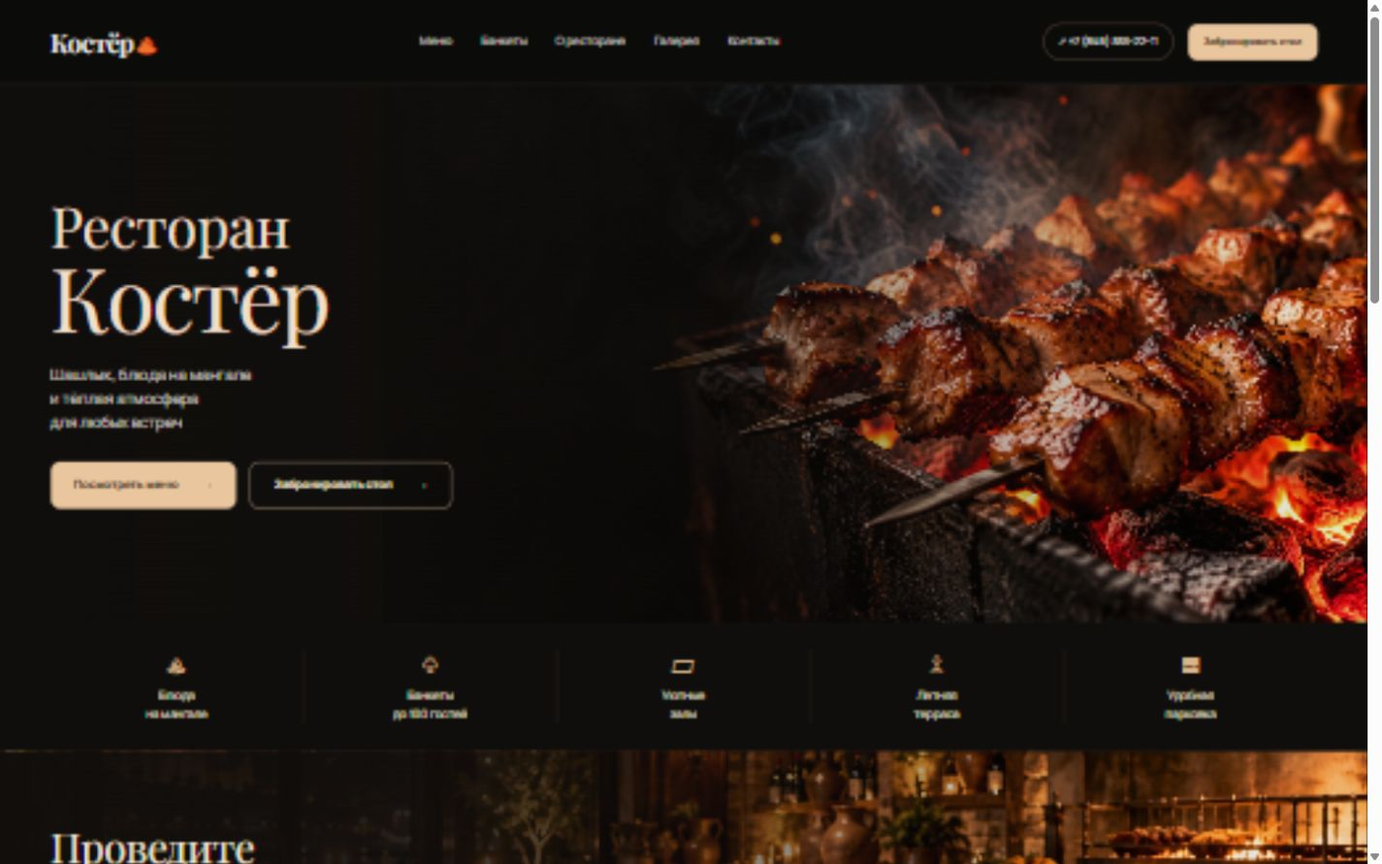
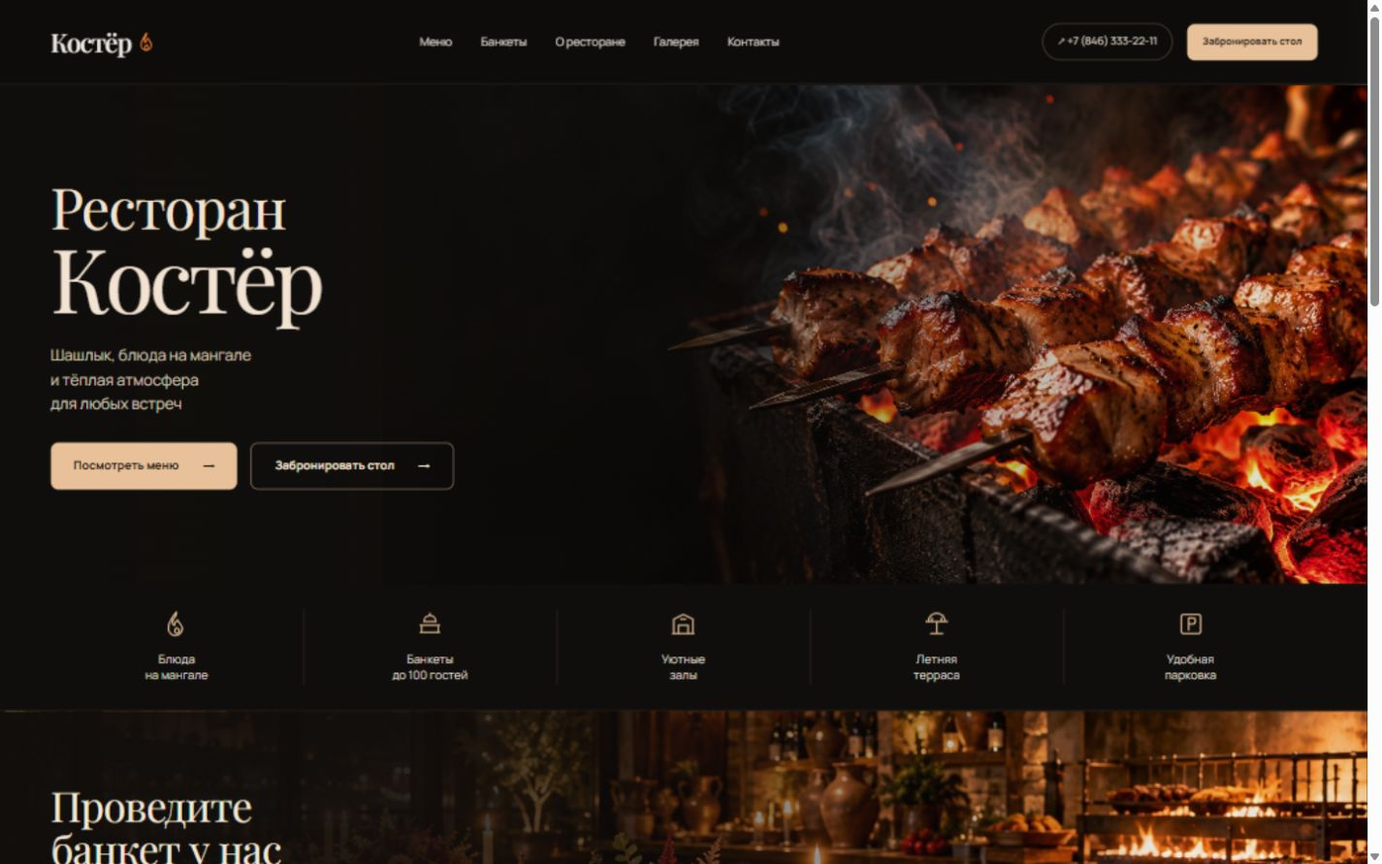
Refine Koster restaurant design and motion

diff --git a/mockups/koster/app.js b/mockups/koster/app.js
@@ -1,22 +1,45 @@
 const app = document.querySelector('#app');
 const images = ['assets/terrace.jpg','assets/interior.jpg','assets/banquet.jpg'];
 let galleryShift = 0;
-const feature = (icon, text) => `<div class="feature"><span class="feature-icon">${icon}</span>${text}</div>`;
+const iconPaths = {
+  flame:'<path d="M12 2c.5 4-3.5 5.2-3.5 8.5 0 1.1.7 2.2 1.7 2.8-.1-2 1.2-3.6 2.6-4.7.1 2.1 4 3.5 4 7.2a5.8 5.8 0 0 1-11.6 0C5.2 11.6 8.2 6.2 12 2Z"/><path d="M12 15.2c-1.1 1-1.6 1.8-1.6 2.7a1.9 1.9 0 0 0 3.8 0c0-.9-.6-1.8-1.2-2.4"/>',
+  table:'<path d="M4 13h16M5 13v6m14-6v6M7 10a5 5 0 0 1 10 0H7Zm5-7v2M4 19h16"/>',
+  room:'<path d="M4 20V8l8-4 8 4v12M8 20v-7h8v7M3 20h18M10 8h4"/>',
+  terrace:'<path d="M3 10h18M12 10v10M5 10a7 7 0 0 1 14 0M7 20h10M8 10V7m8 3V7"/>',
+  parking:'<rect x="4" y="4" width="16" height="16" rx="2"/><path d="M10 17V7h3.2a2.5 2.5 0 0 1 0 5H10"/>',
+  guests:'<circle cx="9" cy="8" r="2.5"/><path d="M4 19v-1a5 5 0 0 1 10 0v1M16 5.8a2.6 2.6 0 0 1 0 5.1M17 13a4 4 0 0 1 3 4v2"/>',
+  cutlery:'<path d="M5 3v5a2 2 0 0 0 4 0V3M7 3v18M18 3c-2 2-3 4-3 7h3M18 3v18"/>',
+  service:'<path d="M3 18h18M5 16a7 7 0 0 1 14 0H5Zm7-10V4M10 4h4M6 21h12"/>',
+  leaf:'<path d="M20 4C11 4 5 6.6 5 13a6 6 0 0 0 6 6c6.4 0 9-6 9-15ZM5 20c2-4 5-7 10-10"/>',
+  chef:'<path d="M7 13a4 4 0 0 1-.5-7.9A4.5 4.5 0 0 1 14.7 5 4 4 0 0 1 18 13v6H7v-6ZM7 16h11M10 13v3m5-3v3"/>',
+  star:'<path d="m12 3 2.6 5.5 6 .8-4.3 4.1 1.1 5.9-5.4-2.8-5.4 2.8 1-5.9-4.2-4.1 6-.8L12 3Z"/>',
+  award:'<path d="M12 3 19 6v6c0 4.3-3 7.2-7 9-4-1.8-7-4.7-7-9V6l7-3Z"/><path d="m9 12 2 2 4-4"/>'
+};
+const icon = (name) => `<svg viewBox="0 0 24 24" fill="none" stroke="currentColor" stroke-width="1.35" stroke-linecap="round" stroke-linejoin="round" aria-hidden="true">${iconPaths[name] || iconPaths.flame}</svg>`;
+const feature = (name, text) => `<div class="feature"><span class="feature-icon">${icon(name)}</span>${text}</div>`;
 const features = (items, extra='') => `<div class="features ${extra}"><div class="wrap features-grid">${items.map(x=>feature(...x)).join('')}</div></div>`;
-const homeFeatures = [['♨','Блюда<br>на мангале'],['♧','Банкеты<br>до 100 гостей'],['▱','Уютные<br>залы'],['♙','Летняя<br>терраса'],['▦','Удобная<br>парковка']];
-const banquetFeatures = [['♧','До 100<br>гостей'],['♙','Отдельные<br>залы'],['⚒','Индивидуальное<br>меню'],['✿','Полный<br>сервис']];
-const aboutFeatures = [['♧','Свежие<br>продукты'],['♙','Опытные<br>повара'],['☆','Уютная<br>атмосфера'],['⌂','Высокий<br>уровень сервиса']];
-function dishImage(item, index) {
-  if (/veget|salad|pickles|cheese|rice|potato|fries|hummus/.test(item.image)) return 'assets/food.jpg';
-  return index % 3 === 1 ? 'assets/food.jpg' : 'assets/grill.jpg';
+const homeFeatures = [['flame','Блюда<br>на мангале'],['table','Банкеты<br>до 100 гостей'],['room','Уютные<br>залы'],['terrace','Летняя<br>терраса'],['parking','Удобная<br>парковка']];
+const banquetFeatures = [['guests','До 100<br>гостей'],['room','Отдельные<br>залы'],['cutlery','Индивидуальное<br>меню'],['service','Полный<br>сервис']];
+const aboutFeatures = [['leaf','Свежие<br>продукты'],['chef','Опытные<br>повара'],['star','Уютная<br>атмосфера'],['award','Высокий<br>уровень сервиса']];
+function dishImage(item) {
+  const images = {
+    'pork-kebab':'pork', 'chicken-kebab':'chicken', 'lamb-kebab':'grill', 'lula-kebab':'lula', 'chicken-wings':'chicken', 'grilled-vegetables':'vegetables',
+    'lamb-saj':'food', 'dolma':'food', 'roast':'food', 'chicken-tabaka':'chicken',
+    'pickles':'starters', 'cheese':'starters', 'cold-cuts':'food', 'fresh-vegetables':'vegetables', 'hummus':'starters',
+    'georgian-salad':'salad', 'caesar-salad':'salad', 'vegetable-salad':'vegetables', 'beef-salad':'food', 'eggplant-salad':'vegetables',
+    'grilled-potatoes':'potatoes', 'fries':'potatoes', 'rice':'food', 'roast-potatoes':'potatoes',
+    'tomato-sauce':'starters', 'matsoni-sauce':'starters', 'narsharab':'starters', 'adjika':'starters',
+    'lemonade':'lemonade', 'berry-drink':'lemonade', 'tea':'lemonade', 'water':'lemonade'
+  };
+  return 'assets/' + (images[item.image] || 'food') + '.jpg';
 }
 function dish(item,index){return `<article class="dish"><img src="${dishImage(item,index)}" alt="${item.name}" loading="lazy"><div class="dish-info"><div class="dish-name">${item.name}</div><div class="dish-price">${item.price} ₽</div><button class="add" aria-label="Добавить ${item.name}" data-add="${item.name}">+</button></div></article>`}
 function gallery(){return `<section class="section" id="gallery"><div class="wrap"><div class="section-head"><h2>Атмосфера Костра</h2><div class="gallery-controls"><button class="circle" data-gallery="-1" aria-label="Предыдущее фото">‹</button><button class="circle" data-gallery="1" aria-label="Следующее фото">›</button></div></div><div class="gallery-grid">${images.map((_,i)=>`<img src="${images[(i+galleryShift+3)%3]}" alt="Атмосфера ресторана Костёр" loading="lazy">`).join('')}</div></div></section>`}
 function hero(cls,crumb,title,desc,actions){return `<section class="hero page-hero ${cls}"><div class="hero-image"></div><div class="wrap"><div class="hero-copy"><div class="breadcrumbs">Главная / ${crumb}</div><h1>${title}</h1><p>${desc}</p>${actions||''}</div></div></section>`}
 function home(){let popular=[KOSTER_MENU[0].items[0],KOSTER_MENU[0].items[1],KOSTER_MENU[0].items[3],KOSTER_MENU[0].items[5]];return `<section class="hero hero-home"><div class="hero-image"></div><div class="wrap"><div class="hero-copy"><h1><span>Ресторан</span>Костёр</h1><p>Шашлык, блюда на мангале<br>и тёплая атмосфера<br>для любых встреч</p><div class="actions"><a class="button" href="#menu">Посмотреть меню <span>→</span></a><button class="button button-outline" data-book>Забронировать стол <span>→</span></button></div></div></div></section>${features(homeFeatures)}<section class="split-photo banquet-promo"><div class="wrap"><div class="split-copy"><h2>Проведите<br>банкет у нас</h2><p>Дни рождения, корпоративы, свадьбы и другие важные события в уютной атмосфере.</p><a class="button" href="#banquets">Оставить заявку <span>→</span></a></div></div></section><section class="section"><div class="wrap"><div class="section-head"><h2>Популярные блюда</h2><a class="text-link" href="#menu">Смотреть всё меню →</a></div><div class="cards">${popular.map(dish).join('')}</div></div></section>${gallery()}<section class="section" id="reviews"><div class="wrap"><div class="section-head"><h2>Отзывы гостей</h2><a class="text-link" href="#reviews">Все отзывы →</a></div><div class="reviews">${[['Отличный шашлык, всегда сочный и вкусный! Часто приходим с семьёй.','Алексей Г.'],['Проводили здесь юбилей — всё на высшем уровне! Спасибо команде.','Марина К.'],['Уютная атмосфера, вкусная еда и отличный сервис. Рекомендуем!','Игорь С.']].map(x=>`<article class="review"><span class="quote">“</span><p>${x[0]}</p><div class="review-bottom"><span>${x[1]}</span><span class="stars">★★★★★</span></div></article>`).join('')}</div></div></section>`}
-function menu(){return `${hero('menu-hero','Меню','Меню','Блюда с мангала, закуски, гарниры и всё, что дополнит ваш отдых.')}<div class="wrap menu-bottom"><div class="tabs">${KOSTER_MENU.map((c,i)=>`<a class="tab ${i===0?'active':''}" href="#category-${c.id}" data-category="${c.id}">${c.shortTitle}</a>`).join('')}</div>${KOSTER_MENU.map(c=>`<section class="menu-section" id="category-${c.id}"><h2><span>♨</span>${c.title}</h2><div class="cards">${c.items.map(dish).join('')}</div></section>`).join('')}</div>`}
+function menu(){return `${hero('menu-hero','Меню','Меню','Блюда с мангала, закуски, гарниры и всё, что дополнит ваш отдых.')}<div class="wrap menu-bottom"><div class="tabs">${KOSTER_MENU.map((c,i)=>`<a class="tab ${i===0?'active':''}" href="#category-${c.id}" data-category="${c.id}">${c.shortTitle}</a>`).join('')}</div>${KOSTER_MENU.map(c=>`<section class="menu-section" id="category-${c.id}"><h2><span class="menu-flame">${icon('flame')}</span>${c.title}</h2><div class="cards">${c.items.map(dish).join('')}</div></section>`).join('')}</div>`}
 function banquets(){return `${hero('banquet-hero','Банкеты','Банкеты<br>в Костре','Проведите у нас день рождения, свадьбу, корпоратив или любой важный повод.',`<div class="actions"><a class="button" href="#application" data-scroll="application">Оставить заявку <span>→</span></a><a class="button button-outline" href="#menu">Посмотреть меню <span>→</span></a></div>`)}${features(banquetFeatures,'four')}<section class="section"><div class="wrap"><div class="section-head"><h2>Наши залы</h2><div class="gallery-controls"><button class="circle" data-halls="-1" aria-label="Предыдущий зал">‹</button><button class="circle" data-halls="1" aria-label="Следующий зал">›</button></div></div><div class="hall-grid">${[['Основной зал','до 60 гостей','interior.jpg'],['Банкетный зал','до 100 гостей','banquet.jpg'],['Летняя терраса','до 40 гостей','terrace.jpg']].map(h=>`<article class="hall"><img src="assets/${h[2]}" alt="${h[0]}"><div><h3>${h[0]}</h3><p>${h[1]}</p></div></article>`).join('')}</div></div></section><section class="split-photo food-promo"><div class="wrap"><div class="split-copy"><h2>Банкетное меню</h2><p>Специальные сеты для мероприятий — подберём меню под ваш формат и бюджет.</p><a class="button" href="#menu">Смотреть меню <span>→</span></a></div></div></section><section class="section application" id="application"><div class="wrap"><h2>Оставьте заявку на банкет</h2><p>Мы свяжемся с вами, уточним детали<br>и поможем организовать идеальный праздник.</p><form class="application-form"><input required name="name" placeholder="Ваше имя" aria-label="Ваше имя"><input required type="tel" name="phone" placeholder="Телефон" aria-label="Телефон"><input type="text" name="date" placeholder="Дата мероприятия" aria-label="Дата мероприятия" onfocus="this.type='date'"><select name="guests" aria-label="Количество гостей"><option value="">Количество гостей</option><option>До 20 гостей</option><option>20–50 гостей</option><option>50–100 гостей</option></select><textarea name="comment" placeholder="Комментарий" aria-label="Комментарий"></textarea><button class="button" type="submit">Отправить заявку <span>→</span></button><small>Демонстрационная форма макета</small></form></div></section>`}
-function about(){return `${hero('about-hero','О ресторане','О ресторане','Костёр — это ресторан с акцентом на блюда с мангала, душевную атмосферу и качественный отдых в кругу близких.')}${features(aboutFeatures,'four')}<section class="split-photo about-promo"><div class="wrap"><div class="split-copy"><h2>Натуральный<br>вкус на огне</h2><p>Готовим из отборного мяса на настоящем мангале, сохраняя сочность и аромат.</p></div></div></section>${gallery()}<section class="section" id="contacts"><div class="wrap contact-grid"><div><h2>Контакты</h2><div class="contact-list"><div><span>⌾</span> г. Самара, ул. Ново-Садовая, 24</div><a href="tel:+78463332211"><span>⌕</span> +7 (846) 333-22-11</a><div><span>◷</span> Ежедневно с 11:00 до 00:00</div><div class="socials"><a href="https://t.me/">➤</a><a href="https://vk.com/">VK</a><a href="https://instagram.com/">◎</a></div></div></div><a class="map" href="https://maps.google.com/?q=Самара+Ново-Садовая+24" target="_blank" rel="noreferrer" aria-label="Открыть карту"><b>Костёр</b></a></div></section><section class="split-photo reserve-promo"><div class="wrap"><div class="split-copy"><h2>Забронируйте стол</h2><p>Выберите удобную дату и время — мы подготовим для вас лучшее место.</p><button class="button" data-book>Забронировать стол <span>→</span></button></div></div></section>`}
+function about(){return `${hero('about-hero','О ресторане','О ресторане','Костёр — это ресторан с акцентом на блюда с мангала, душевную атмосферу и качественный отдых в кругу близких.')}${features(aboutFeatures,'four')}<section class="split-photo about-promo"><div class="wrap"><div class="split-copy"><h2>Натуральный<br>вкус на огне</h2><p>Готовим из отборного мяса на настоящем мангале, сохраняя сочность и аромат.</p></div></div></section>${gallery()}<section class="section" id="contacts"><div class="wrap contact-grid"><div><h2>Контакты</h2><div class="contact-list"><div><span>⌾</span> г. Самара, ул. Ново-Садовая, 24</div><a href="tel:+78463332211"><span>⌕</span> +7 (846) 333-22-11</a><div><span>◷</span> Ежедневно с 11:00 до 00:00</div><div class="socials"><a href="https://t.me/">➤</a><a href="https://vk.com/">VK</a><a href="https://instagram.com/">◎</a></div></div></div><div class="map"><iframe title="Карта — Ново-Садовая, 24" loading="lazy" src="https://maps.google.com/maps?q=%D0%A1%D0%B0%D0%BC%D0%B0%D1%80%D0%B0%2C%20%D0%9D%D0%BE%D0%B2%D0%BE-%D0%A1%D0%B0%D0%B4%D0%BE%D0%B2%D0%B0%D1%8F%2C%2024&z=15&output=embed"></iframe><a href="https://maps.google.com/?q=Самара+Ново-Садовая+24" target="_blank" rel="noreferrer">Открыть карту ↗</a></div></div></section><section class="split-photo reserve-promo"><div class="wrap"><div class="split-copy"><h2>Забронируйте стол</h2><p>Выберите удобную дату и время — мы подготовим для вас лучшее место.</p><button class="button" data-book>Забронировать стол <span>→</span></button></div></div></section>`}
 function render(){let hash=location.hash.slice(1)||'home';let page=(hash==='menu'||hash.startsWith('category-'))?'menu':hash==='banquets'?'banquets':hash==='about'||hash==='contacts'?'about':'home';app.innerHTML=({home,menu,banquets,about})[page]();document.querySelectorAll('.nav a').forEach(a=>a.classList.toggle('active',a.getAttribute('href')==='#'+page));document.querySelector('.nav').classList.remove('open');document.querySelector('.hamburger').setAttribute('aria-expanded','false');if(hash==='gallery'||hash==='contacts'||hash==='reviews'||hash.startsWith('category-'))requestAnimationFrame(()=>document.getElementById(hash)?.scrollIntoView());else window.scrollTo(0,0)}
 window.addEventListener('hashchange',()=>{if(location.hash.startsWith('#category-') && document.querySelector('.menu-section')) return;render()});
 document.addEventListener('click',e=>{const booking=e.target.closest('[data-book]');if(booking)document.querySelector('#booking').showModal();const add=e.target.closest('[data-add]');if(add)showToast('Демонстрация меню: заказ не оформляется');const gal=e.target.closest('[data-gallery]');if(gal){galleryShift=(galleryShift+Number(gal.dataset.gallery)+3)%3;const grid=gal.closest('section').querySelector('.gallery-grid');grid.querySelectorAll('img').forEach((img,i)=>img.src=images[(i+galleryShift)%3])}const hall=e.target.closest('[data-halls]');if(hall){const grid=document.querySelector('.hall-grid');if(Number(hall.dataset.halls)>0)grid.append(grid.firstElementChild);else grid.prepend(grid.lastElementChild)}const tab=e.target.closest('[data-category]');if(tab){document.querySelectorAll('.tab').forEach(t=>t.classList.remove('active'));tab.classList.add('active')}const scroll=e.target.closest('[data-scroll]');if(scroll){e.preventDefault();document.getElementById(scroll.dataset.scroll)?.scrollIntoView({behavior:'smooth'})}});
@@ -25,6 +48,7 @@ document.querySelector('.hamburger').addEventListener('click',e=>{let nav=docume
 document.addEventListener('submit',e=>{e.preventDefault();if(e.target.closest('dialog'))document.querySelector('#booking').close();e.target.reset();showToast('Спасибо! Это демонстрационная форма макета.')});
 let toastTimer;function showToast(message){const toast=document.querySelector('.toast');toast.textContent=message;toast.classList.add('show');clearTimeout(toastTimer);toastTimer=setTimeout(()=>toast.classList.remove('show'),3500)}
 render();
+
 
 
 

diff --git a/mockups/koster/index.html b/mockups/koster/index.html
@@ -6,19 +6,19 @@
   <title>Костёр — ресторан с душой огня</title>
   <link rel="preconnect" href="https://fonts.googleapis.com"><link rel="preconnect" href="https://fonts.gstatic.com" crossorigin>
   <link href="https://fonts.googleapis.com/css2?family=Manrope:wght@400;500;600;700&family=Playfair+Display:wght@400;500;600&display=swap" rel="stylesheet">
-  <link rel="stylesheet" href="style.css">
+  <link rel="stylesheet" href="style.css"><link rel="stylesheet" href="polish.css"><link rel="stylesheet" href="motion.css">
 </head>
 <body>
 <header class="header"><div class="header-inner wrap">
-  <a class="logo" href="#home" aria-label="Костёр — на главную">Костёр<span>♨</span></a>
+  <a class="logo" href="#home" aria-label="Костёр — на главную">Костёр<span class="logo-flame"><svg viewBox="0 0 24 24" fill="none" stroke="currentColor" stroke-width="1.5" stroke-linecap="round" stroke-linejoin="round" aria-hidden="true"><path d="M12.2 2c.7 4-2.9 5-2.5 8.2.1 1.1.8 1.8 1.5 2.1-.2-2 1.3-3.5 2.7-4.6-.1 2.4 3.6 3.7 3.6 7.3a5.6 5.6 0 0 1-11.2 0C6.3 11 8.7 6.9 12.2 2Z"/><path d="M11.9 15c-1.4 1-2 1.9-2 3a2.2 2.2 0 0 0 4.4 0c0-1-.7-2-1.3-2.7"/></svg></span></a>
   <nav class="nav" aria-label="Основная навигация"><a href="#menu">Меню</a><a href="#banquets">Банкеты</a><a href="#about">О ресторане</a><a href="#gallery">Галерея</a><a href="#contacts">Контакты</a></nav>
   <div class="header-actions"><a class="phone" href="tel:+78463332211">↗ +7 (846) 333-22-11</a><button class="button button-small" data-book>Забронировать стол</button></div>
   <button class="hamburger" aria-label="Открыть меню" aria-expanded="false">☰</button>
 </div></header>
 <main id="app"></main>
-<footer class="footer"><div class="wrap footer-inner"><div><a class="logo" href="#home">Костёр<span>♨</span></a><p>Ресторан &nbsp;|&nbsp; Шашлык &nbsp;|&nbsp; Банкеты</p></div><div class="footer-info"><span>⌾ &nbsp; г. Самара, ул. Ново-Садовая, 24</span><a href="tel:+78463332211">⌕ &nbsp; +7 (846) 333-22-11</a><span>◷ &nbsp; Ежедневно с 11:00 до 00:00</span></div><div class="socials"><a href="https://t.me/" aria-label="Telegram">➤</a><a href="https://vk.com/" aria-label="ВКонтакте">VK</a><a href="https://instagram.com/" aria-label="Instagram">◎</a></div></div></footer>
+<footer class="footer"><div class="wrap footer-inner"><div><a class="logo" href="#home">Костёр<span class="logo-flame"><svg viewBox="0 0 24 24" fill="none" stroke="currentColor" stroke-width="1.5" stroke-linecap="round" stroke-linejoin="round" aria-hidden="true"><path d="M12.2 2c.7 4-2.9 5-2.5 8.2.1 1.1.8 1.8 1.5 2.1-.2-2 1.3-3.5 2.7-4.6-.1 2.4 3.6 3.7 3.6 7.3a5.6 5.6 0 0 1-11.2 0C6.3 11 8.7 6.9 12.2 2Z"/><path d="M11.9 15c-1.4 1-2 1.9-2 3a2.2 2.2 0 0 0 4.4 0c0-1-.7-2-1.3-2.7"/></svg></span></a><p>Ресторан &nbsp;|&nbsp; Шашлык &nbsp;|&nbsp; Банкеты</p></div><div class="footer-info"><span>⌾ &nbsp; г. Самара, ул. Ново-Садовая, 24</span><a href="tel:+78463332211">⌕ &nbsp; +7 (846) 333-22-11</a><span>◷ &nbsp; Ежедневно с 11:00 до 00:00</span></div><div class="socials"><a href="https://t.me/" aria-label="Telegram">➤</a><a href="https://vk.com/" aria-label="ВКонтакте">VK</a><a href="https://instagram.com/" aria-label="Instagram">◎</a></div></div></footer>
 <dialog id="booking"><form method="dialog" class="modal"><button type="button" class="modal-close" aria-label="Закрыть">×</button><p class="eyebrow">До встречи у огня</p><h2>Забронировать стол</h2><p>Оставьте ваши контакты, и мы свяжемся с вами для уточнения деталей.</p><label>Ваше имя<input required name="name" placeholder="Как к вам обращаться"></label><label>Телефон<input required name="phone" type="tel" placeholder="+7 (___) ___-__-__"></label><button type="submit" class="button wide">Оставить заявку <span>→</span></button><small>Демонстрационная форма макета</small></form></dialog>
 <div class="toast" role="status"></div>
-<script src="menu.js"></script><script src="app.js"></script>
+<script src="menu.js"></script><script src="app.js"></script><script src="motion.js"></script>
 </body></html>
 

diff --git a/mockups/koster/polish.css b/mockups/koster/polish.css
@@ -1,0 +1,41 @@
+/* Details shared by every page */
+:root{--bg:#100e0c;--panel:#191510;--line:#332820;--cream:#f3e3d2;--accent:#e8c19a}
+body{background:var(--bg);-webkit-font-smoothing:antialiased}
+.header{position:sticky;top:0;background:rgba(12,11,10,.96);backdrop-filter:blur(14px);z-index:20}
+.logo{display:inline-flex;align-items:center;gap:4px;font-weight:500;letter-spacing:-1.2px}
+.logo .logo-flame{display:inline-flex;width:23px;height:28px;padding:0;color:#ec782f}
+.logo-flame svg{width:100%;height:100%}
+.nav a{position:relative;padding:8px 0;font-size:12px}
+.nav a:after{content:"";position:absolute;bottom:1px;left:0;width:100%;height:1px;background:#d7ae82;transform:scaleX(0);transform-origin:left;transition:transform .3s ease}
+.nav a:hover:after,.nav a.active:after{transform:scaleX(1)}
+.phone{color:#ddd0c3;border-color:#504237}
+.button{border-radius:8px;letter-spacing:.005em}.button-outline{border-color:#8c735e}
+.hero-home{min-height:520px}.hero-home .hero-copy{padding-top:60px;padding-bottom:60px}
+.hero h1,.page-hero h1{font-weight:400;letter-spacing:-.045em}
+.hero h1 span{letter-spacing:-.025em}
+.hero p,.page-hero p{color:#d4c8bc}
+.feature{font-size:12px;line-height:1.45;letter-spacing:.01em;color:#dfd6cc}
+.feature-icon{display:flex;width:30px;height:30px;margin:0 auto 13px;color:#d8b28a}
+.feature-icon svg,.menu-flame svg{display:block;width:100%;height:100%}
+.features-grid{padding-top:27px;padding-bottom:27px}
+.section{background:#100e0c}.section:nth-of-type(even){background:#120f0d}
+.section h2,.section-head h2,.split-copy h2{letter-spacing:-.025em}
+.section-head{margin-bottom:26px}
+.split-photo{min-height:360px}
+.dish,.hall{background:#17130f;border-color:#3a2c21;border-radius:7px}
+.dish img{height:185px}.dish-info{min-height:95px;padding:15px 16px}.dish-name{font-weight:500;color:#eee2d5}.dish-price{letter-spacing:.01em}
+.add,.circle{display:grid;place-items:center;font-family:Arial,sans-serif;font-weight:300}
+.menu-section h2{display:flex;align-items:center;gap:12px}
+.menu-section h2 .menu-flame{width:24px;height:24px;display:inline-flex;margin:0;color:#dfac78}
+.menu-hero{min-height:280px}.menu-section{padding-top:38px}.menu-section .dish img{height:190px}
+.gallery-grid img{border-radius:7px}.gallery-grid{overflow:hidden}
+.review{border-radius:7px;background:#18130f}.review p{line-height:1.7}
+.contact-list{margin-top:26px}.contact-list span{display:inline-block;width:20px}
+.map{position:relative;display:block;overflow:hidden;background:#24221e;border:1px solid #38332d}
+.map iframe{width:100%;height:100%;border:0;filter:grayscale(1) invert(.88) contrast(.85);opacity:.8}
+.map a{position:absolute;right:16px;bottom:16px;padding:10px 14px;background:#181411;color:#f2dfc9;border:1px solid #66513e;border-radius:6px;font-size:11px}
+.footer{border-top:1px solid #2e241c}.footer-info{line-height:1.6}
+:focus-visible{outline:2px solid #e8c19a;outline-offset:4px}
+[id]{scroll-margin-top:100px}
+@media(max-width:1000px){.menu-section .dish img{height:170px}}
+@media(max-width:700px){.header{height:70px}.hero-home{min-height:560px}.hero-home .hero-copy{padding:70px 0 48px}.hero h1{letter-spacing:-.04em}.features-grid{padding:28px 0}.feature-icon{width:27px;height:27px}.dish img,.menu-section .dish img{height:132px}.menu-hero{min-height:300px}.menu-section h2{font-size:24px}.contact-list{margin-top:22px}.map a{right:10px;bottom:10px}[id]{scroll-margin-top:82px}}

diff --git a/mockups/koster/motion.js b/mockups/koster/motion.js
@@ -1,0 +1,60 @@
+(() => {
+  const app = document.querySelector('#app');
+  if (!app) return;
+
+  const reduceMotion = window.matchMedia('(prefers-reduced-motion: reduce)');
+  const targets = [
+    '.section-head', '.split-copy', '.features-grid .feature',
+    '.dish', '.hall', '.review', '.gallery-grid img',
+    '.menu-section > h2', '.contact-grid > *',
+    '.application > .wrap > h2', '.application > .wrap > p', '.application-form'
+  ].join(',');
+  let observer;
+
+  function prepare() {
+    if (observer) observer.disconnect();
+    const elements = Array.from(app.querySelectorAll(targets));
+    if (reduceMotion.matches || !('IntersectionObserver' in window)) {
+      document.documentElement.classList.remove('motion-ready');
+      elements.forEach(element => {
+        element.classList.remove('motion-reveal', 'is-visible');
+        element.style.removeProperty('--reveal-delay');
+      });
+      return;
+    }
+    observer = new IntersectionObserver(entries => {
+      entries.forEach(entry => {
+        if (!entry.isIntersecting) return;
+        entry.target.classList.add('is-visible');
+        observer.unobserve(entry.target);
+      });
+    }, { rootMargin: '0px 0px -32px 0px', threshold: 0.08 });
+    elements.forEach(element => {
+      element.classList.add('motion-reveal');
+      const siblings = element.parentElement ? Array.from(element.parentElement.children) : [];
+      element.style.setProperty('--reveal-delay', `${Math.min(siblings.indexOf(element), 3) * 55}ms`);
+      observer.observe(element);
+    });
+    document.documentElement.classList.add('motion-ready');
+  }
+
+  // The site swaps the direct children of #app on each hash route.
+  new MutationObserver(prepare).observe(app, { childList: true });
+  if (reduceMotion.addEventListener) reduceMotion.addEventListener('change', prepare);
+  else if (reduceMotion.addListener) reduceMotion.addListener(prepare);
+  prepare();
+
+  // A small scroll offset gives the opening photograph depth on larger screens.
+  let frame = 0;
+  function moveHero() {
+    frame = 0;
+    const photo = app.querySelector('.hero-image');
+    const hero = photo && photo.closest('.hero');
+    if (!photo || !hero) return;
+    const distance = (!reduceMotion.matches && window.innerWidth > 900)
+      ? Math.min(18, Math.max(0, -hero.getBoundingClientRect().top * .07)) : 0;
+    photo.style.setProperty('--hero-shift', distance.toFixed(1) + 'px');
+  }
+  window.addEventListener('scroll', () => { if (!frame) frame = requestAnimationFrame(moveHero); }, {passive:true});
+  window.addEventListener('resize', moveHero, {passive:true});
+})();

diff --git a/mockups/koster/motion.css b/mockups/koster/motion.css
@@ -1,0 +1,71 @@
+/* Motion is deliberately restrained: the food and rooms stay at the centre. */
+@media (prefers-reduced-motion: no-preference) {
+  .hero-image {
+    animation: koster-hero-image 1.5s cubic-bezier(.2,.65,.2,1) both;
+    transform: translate3d(0, var(--hero-shift, 0px), 0) scale(1.08);
+    will-change: transform;
+  }
+  .hero-copy > * {
+    animation: koster-hero-copy .8s cubic-bezier(.2,.65,.2,1) both;
+  }
+  .hero-copy > :nth-child(2) { animation-delay: .09s; }
+  .hero-copy > :nth-child(3) { animation-delay: .17s; }
+  .hero-copy > :nth-child(4) { animation-delay: .24s; }
+
+  .motion-ready .motion-reveal {
+    opacity: 0;
+    transform: translate3d(0, 20px, 0);
+    transition: opacity .72s cubic-bezier(.2,.65,.2,1), transform .72s cubic-bezier(.2,.65,.2,1);
+    transition-delay: var(--reveal-delay, 0ms);
+  }
+  .motion-ready .motion-reveal.is-visible,
+  .motion-ready .motion-reveal:focus-within {
+    opacity: 1;
+    transform: translate3d(0, 0, 0);
+  }
+  .dish img, .hall img {
+    transition: transform .7s cubic-bezier(.2,.65,.2,1), filter .7s ease;
+  }
+  .dish:hover img, .hall:hover img {
+    transform: scale(1.045);
+    filter: brightness(1.06);
+  }
+  .dish, .hall {
+    transition: border-color .35s ease, background-color .35s ease;
+  }
+  .dish:hover, .hall:hover { border-color: #826348; }
+  .text-link { transition: color .25s ease, border-color .25s ease; }
+  .text-link:hover { color: #fff1df; border-color: #eac69e; }
+  .button span { transition: transform .25s ease; }
+  .button:hover span { transform: translateX(4px); }
+  .circle, .add, .socials a {
+    transition: color .25s ease, background-color .25s ease, border-color .25s ease;
+  }
+  .circle:hover, .socials a:hover {
+    background-color: #eac69e;
+    border-color: #eac69e;
+    color: #21170f;
+  }
+  dialog[open] .modal { animation: koster-dialog .35s cubic-bezier(.2,.65,.2,1) both; }
+}
+@keyframes koster-hero-image {
+  from { opacity: .72; }
+  to { opacity: 1; }
+}
+@keyframes koster-hero-copy {
+  from { opacity: 0; transform: translate3d(0, 14px, 0); }
+  to { opacity: 1; transform: translate3d(0, 0, 0); }
+}
+@keyframes koster-dialog {
+  from { opacity: 0; transform: translate3d(0, 10px, 0); }
+  to { opacity: 1; transform: translate3d(0, 0, 0); }
+}
+@media (prefers-reduced-motion: reduce) {
+  html { scroll-behavior: auto; }
+  *, *::before, *::after {
+    animation-duration: .01ms !important;
+    animation-iteration-count: 1 !important;
+    transition-duration: .01ms !important;
+    transition-delay: 0ms !important;
+  }
+}
